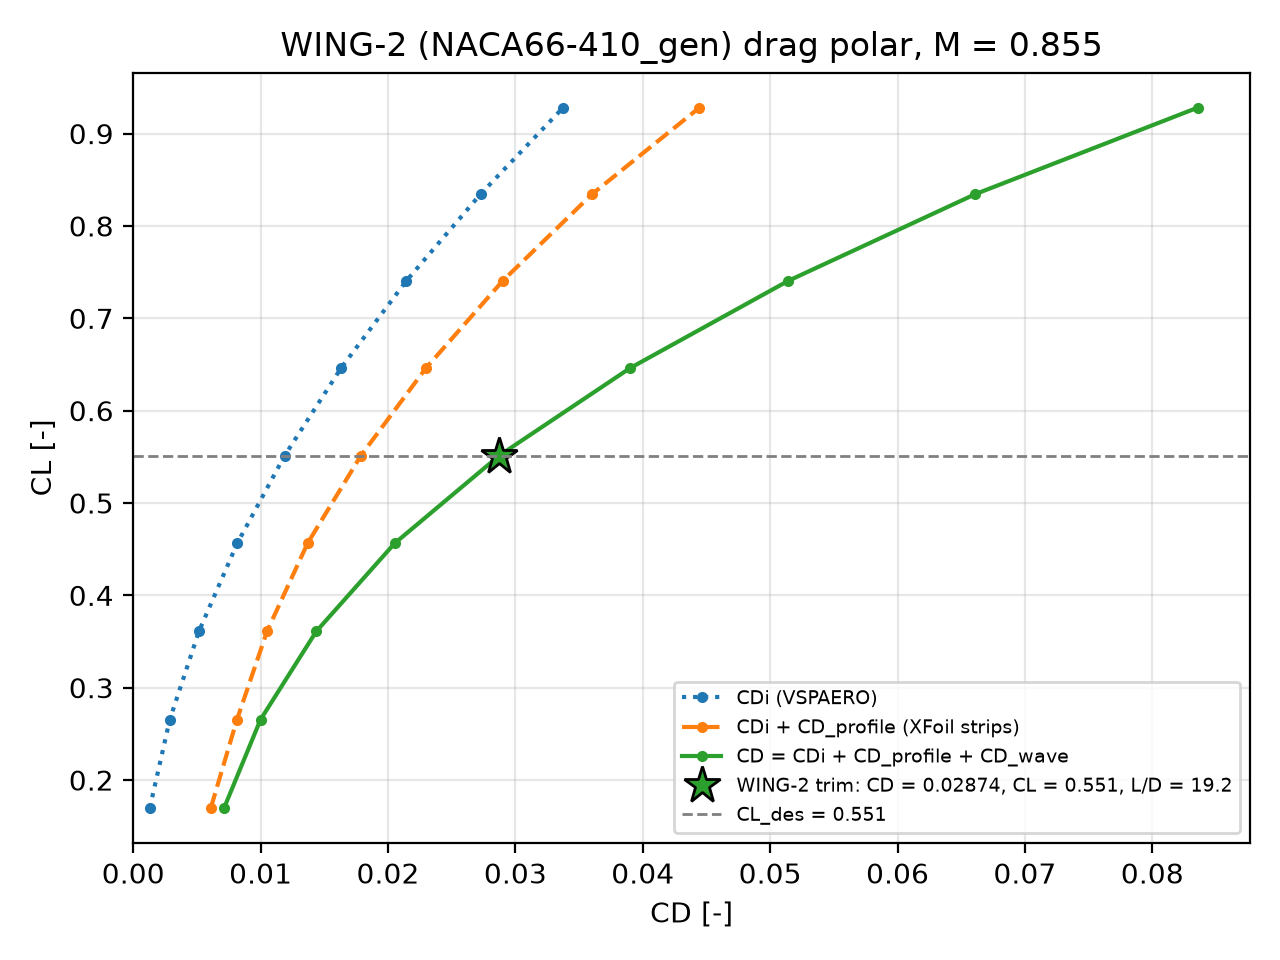
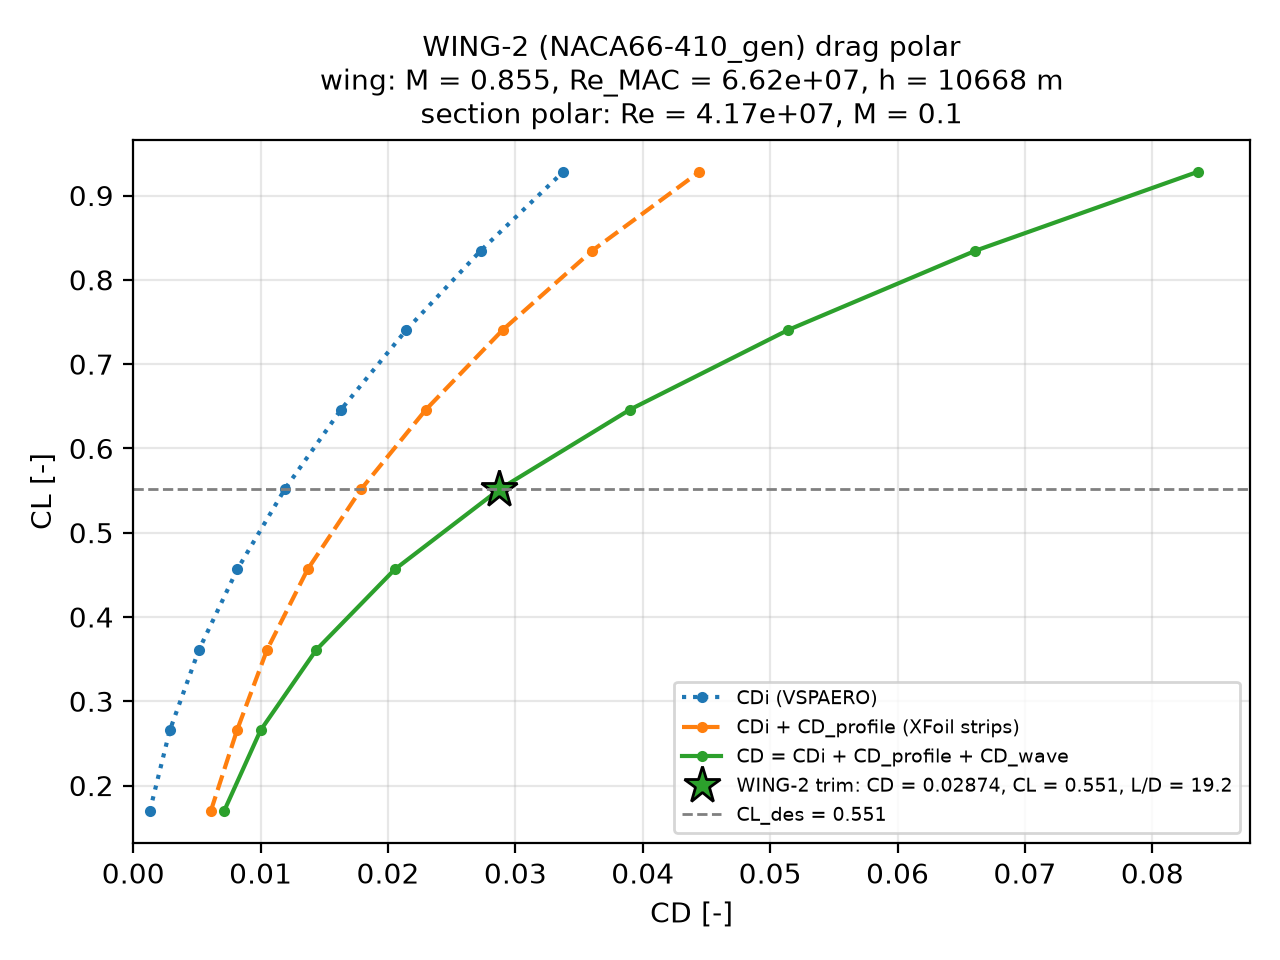
Some changes to the analysis

diff --git a/scripts/wing_analytic.py b/scripts/wing_analytic.py
@@ -13,7 +13,7 @@ For each wing of inputs/wing.toml:
    scripts/wing_twist.py and both trim points.
 
 Writes analytic_lift.csv and lift_curve_comparison.png to results/wing/<name>/, and
-analytic_summary.md to results/wing/.
+analytic_summary.md and lift_curves_all.png (every wing, both methods) to results/wing/.
 
 Needs no OpenVSP. Run from the repo root, after scripts.wing_twist: python -m scripts.wing_analytic
 """
@@ -53,6 +53,7 @@ def main() -> None:
     cruise = cruise_point(case.cruise.mach, case.cruise.altitude_m, case.aircraft.design_mass_kg,
                           planform.area_m2, planform.mac_m, planform.sweep_quarter_chord_deg)
     rows: list[str] = []
+    all_curves: list[LiftCurve] = []
     for entry in case.wings:
         out_dir = OUT_DIR / entry.name
         vlm = read_polar_csv(out_dir / "polar.csv")
@@ -67,14 +68,19 @@ def main() -> None:
         print(f"{entry.name}: CL_alpha = {slope:.4f} /rad, twist = {wing.twist_deg:+.3f} deg "
               f"(VSPAERO {history[-1][0]:+.3f} deg)")
         _write_lift(vlm, wing, out_dir / "analytic_lift.csv")
-        plot_lift_curves(
-            [LiftCurve(f"{entry.name} VSPAERO, ε = {history[-1][0]:+.2f}°", vlm.alpha_deg,
-                       vlm.cl, 0.0, cruise.cl_design),
-             LiftCurve(f"{entry.name} DATCOM, ε = {wing.twist_deg:+.2f}°", vlm.alpha_deg,
-                       wing.cl(vlm.alpha_deg), 0.0, cruise.cl_design)],
-            cruise.cl_design, f"{entry.name} ({entry.airfoil.stem}): VSPAERO and DATCOM",
-            out_dir / "lift_curve_comparison.png")
+        curves = [LiftCurve(f"{entry.name} VSPAERO, ε = {history[-1][0]:+.2f}°", vlm.alpha_deg,
+                            vlm.cl, 0.0, cruise.cl_design),
+                  LiftCurve(f"{entry.name} DATCOM, ε = {wing.twist_deg:+.2f}°", vlm.alpha_deg,
+                            wing.cl(vlm.alpha_deg), 0.0, cruise.cl_design)]
+        all_curves += curves
+        plot_lift_curves(curves, cruise.cl_design,
+                         f"{entry.name} ({entry.airfoil.stem}): VSPAERO and DATCOM\n"
+                         f"{cruise.flow_label}",
+                         out_dir / "lift_curve_comparison.png")
         rows.append(_row(entry.name, alpha_0l, wing, vlm, history))
+    plot_lift_curves(all_curves, cruise.cl_design,
+                     f"Sized wings, VSPAERO and DATCOM\n{cruise.flow_label}",
+                     OUT_DIR / "lift_curves_all.png")
     (OUT_DIR / "analytic_summary.md").write_text(_summary(case, planform, cruise, rows),
                                                  encoding="utf-8")
     print(f"Results in {OUT_DIR}")

diff --git a/src/aircraft_tutorial/plots/wing.py b/src/aircraft_tutorial/plots/wing.py
@@ -19,6 +19,10 @@ import numpy as np  # noqa: E402
 from numpy.typing import NDArray  # noqa: E402
 
 
+_LINESTYLES: tuple[str, ...] = ("-", "--", ":", "-.")
+_MARKERS: tuple[str, ...] = ("o", "s", "^", "D")
+
+
 @dataclass(frozen=True)
 class LiftCurve:
     """One lift curve to draw.
@@ -48,8 +52,12 @@ def plot_lift_curves(curves: list[LiftCurve], cl_design: float, title: str, path
         path: Output image path.
     """
     fig, ax = plt.subplots(figsize=(6.4, 4.8))
-    for curve in curves:
-        (line,) = ax.plot(curve.alpha_deg, curve.cl, marker="o", markersize=3, label=curve.label)
+    for i, curve in enumerate(curves):
+        # Curves of wings sized to the same CL_des lie on top of each other: distinct line
+        # styles and open markers keep every one visible.
+        (line,) = ax.plot(curve.alpha_deg, curve.cl, linestyle=_LINESTYLES[i % len(_LINESTYLES)],
+                          marker=_MARKERS[i % len(_MARKERS)], markersize=5,
+                          markerfacecolor="none", label=curve.label)
         ax.plot(curve.trim_alpha_deg, curve.trim_cl, marker="*", markersize=14,
                 color=line.get_color(), markeredgecolor="black", linestyle="none",
                 label=f"{curve.label} trim: α = {curve.trim_alpha_deg:.2f}°, "
@@ -60,7 +68,7 @@ def plot_lift_curves(curves: list[LiftCurve], cl_design: float, title: str, path
     ax.axvline(0.0, color="black", linewidth=0.6)
     ax.set_xlabel("body angle of attack α [deg]")
     ax.set_ylabel("CL [-]")
-    ax.set_title(title)
+    ax.set_title(title, fontsize=10)
     ax.grid(True, alpha=0.3)
     ax.legend(fontsize=8)
     fig.tight_layout()
@@ -147,7 +155,7 @@ def _finish(ax: Axes, cl_design: float, title: str, path: Path, fig: Figure) -> 
     ax.set_xlim(left=0.0)
     ax.set_xlabel("CD [-]")
     ax.set_ylabel("CL [-]")
-    ax.set_title(title)
+    ax.set_title(title, fontsize=10)
     ax.grid(True, alpha=0.3)
     ax.legend(fontsize=7)
     fig.tight_layout()

diff --git a/scripts/wing_drag.py b/scripts/wing_drag.py
@@ -93,8 +93,12 @@ def main() -> None:
 
     results = [_analyse(case, entry, planform, cruise) for entry in case.wings]
 
+    sections = ", ".join(sorted({f"Re = {r.section.reynolds:.3g}, M = {r.section.mach}"
+                                 for r in results}))
     plot_drag_polars([_plot_data(r) for r in results], cruise.cl_design,
-                     f"Drag polars of the sized wings (M = {cruise.mach:.3f})",
+                     f"Drag polars of the sized wings\n"
+                     f"wing: {cruise.flow_label}\n"
+                     f"section polars: {sections}",
                      OUT_DIR / "drag_polars.png")
     (OUT_DIR / "drag_summary.md").write_text(_summary(case, planform, cruise, results),
                                              encoding="utf-8")
@@ -156,7 +160,9 @@ def _analyse(case: WingCase, entry: WingEntry, planform: TrapezoidalPlanform,
     result = WingDrag(entry, section, lookup, chord_ref, thickness, columns,
                       _trim(columns, cruise.cl_design))
     plot_drag_build_up(_plot_data(result), cruise.cl_design,
-                       f"{entry.name} ({entry.airfoil.stem}) drag polar, M = {cruise.mach:.3f}",
+                       f"{entry.name} ({entry.airfoil.stem}) drag polar\n"
+                       f"wing: {cruise.flow_label}\n"
+                       f"section polar: Re = {section.reynolds:.3g}, M = {section.mach}",
                        out_dir / "drag_polar.png")
     return result
 

diff --git a/scripts/wing_twist.py b/scripts/wing_twist.py
@@ -114,8 +114,8 @@ def main() -> None:
     results = [_analyse(case, entry, planform, reference, flow, cruise) for entry in case.wings]
 
     plot_lift_curves([_curve(r, cruise.cl_design) for r in results], cruise.cl_design,
-                     "Lift curves of the sized wings (VSPAERO, M = "
-                     f"{cruise.mach:.3f})", OUT_DIR / "lift_curves.png")
+                     f"Lift curves of the sized wings, VSPAERO\n{cruise.flow_label}",
+                     OUT_DIR / "lift_curves.png")
     (OUT_DIR / "twist_summary.md").write_text(_summary(case, planform, cruise, results),
                                               encoding="utf-8")
     print(f"Results in {OUT_DIR}")
@@ -167,7 +167,8 @@ def _analyse(case: WingCase, entry: WingEntry, planform: TrapezoidalPlanform,
     result = _wing_result(entry, sizing, polar, cruise.cl_design, planform.aspect_ratio,
                           twist_deviation)
     plot_lift_curves([_curve(result, cruise.cl_design)], cruise.cl_design,
-                     f"{entry.name} ({entry.airfoil.stem}), twist {sizing.twist_deg:+.2f}°",
+                     f"{entry.name} ({entry.airfoil.stem}), twist {sizing.twist_deg:+.2f}°, "
+                     f"VSPAERO\n{cruise.flow_label}",
                      out_dir / "lift_curve.png")
     return result
 

diff --git a/src/aircraft_tutorial/wing/cruise.py b/src/aircraft_tutorial/wing/cruise.py
@@ -72,6 +72,12 @@ class CruisePoint:
     cp_crit_normal: float
 
     @property
+    def flow_label(self) -> str:
+        """Flow condition for plot titles: M and the MAC Reynolds number (the brief asks every
+        aerodynamic plot to state Re and M)."""
+        return f"M = {self.mach:.3f}, Re_MAC = {self.reynolds_mac:.3g}, h = {self.altitude_m:.0f} m"
+
+    @property
     def reynolds_per_m(self) -> float:
         """Unit Reynolds number ρ·V / μ [1/m]."""
         return self.density_kg_m3 * self.velocity_m_s / self.dynamic_viscosity_pa_s

diff --git a/tests/wing/test_cruise.py b/tests/wing/test_cruise.py
@@ -33,6 +33,11 @@ def test_cruise_point_b747_matches_hand_calculation() -> None:
     assert B747.reynolds_mac == pytest.approx(6.62e7, rel=2e-3)
 
 
+def test_flow_label_states_mach_and_reynolds() -> None:
+    """Plot titles get M and Re_MAC."""
+    assert B747.flow_label == "M = 0.855, Re_MAC = 6.62e+07, h = 10668 m"
+
+
 def test_reynolds_of_mac_matches_field() -> None:
     """reynolds(MAC) is the stored Re_MAC; reynolds_normal(MAC) is the stored Re_n."""
     assert B747.reynolds(9.855) == pytest.approx(B747.reynolds_mac, rel=1e-12)
